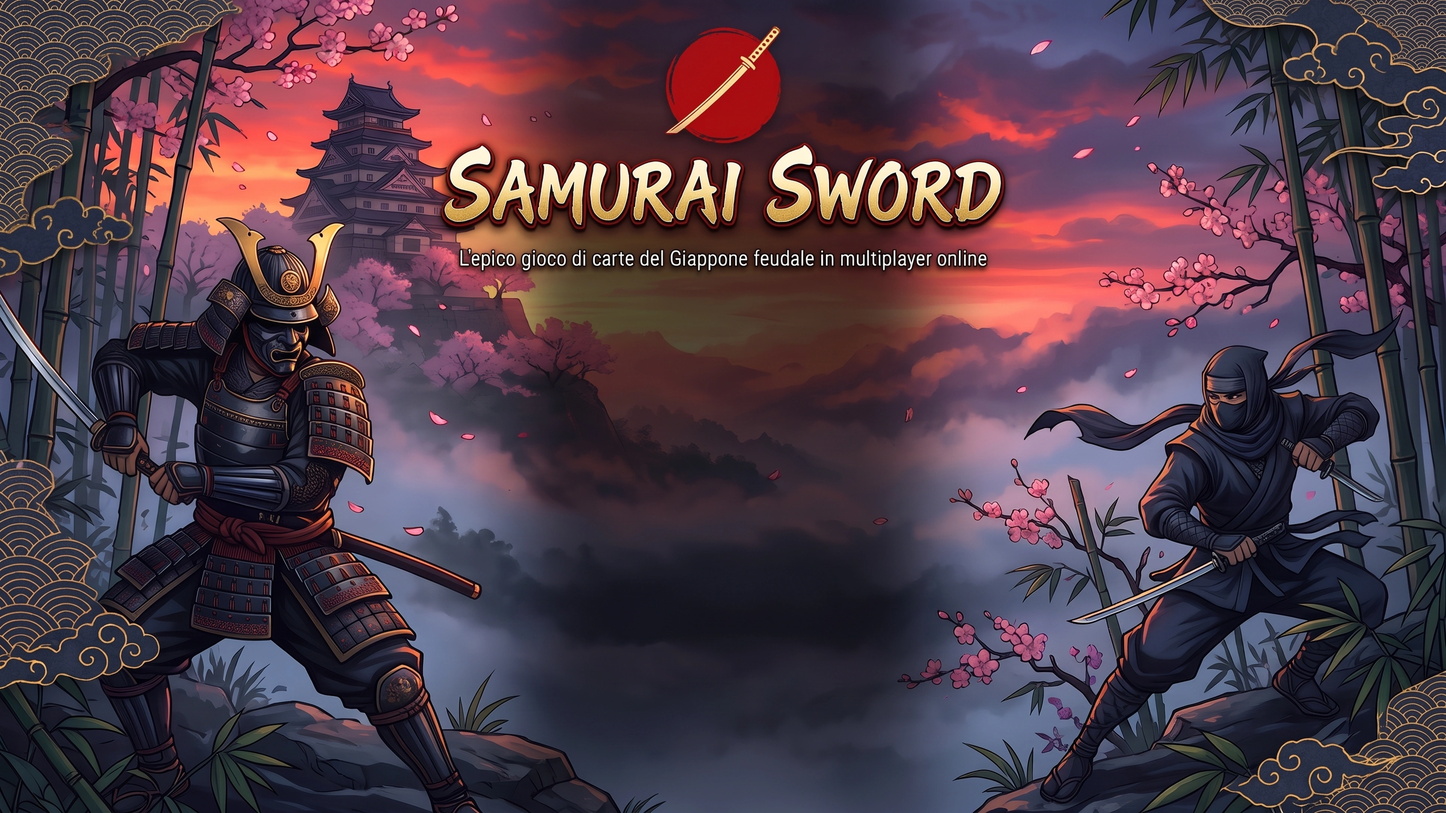
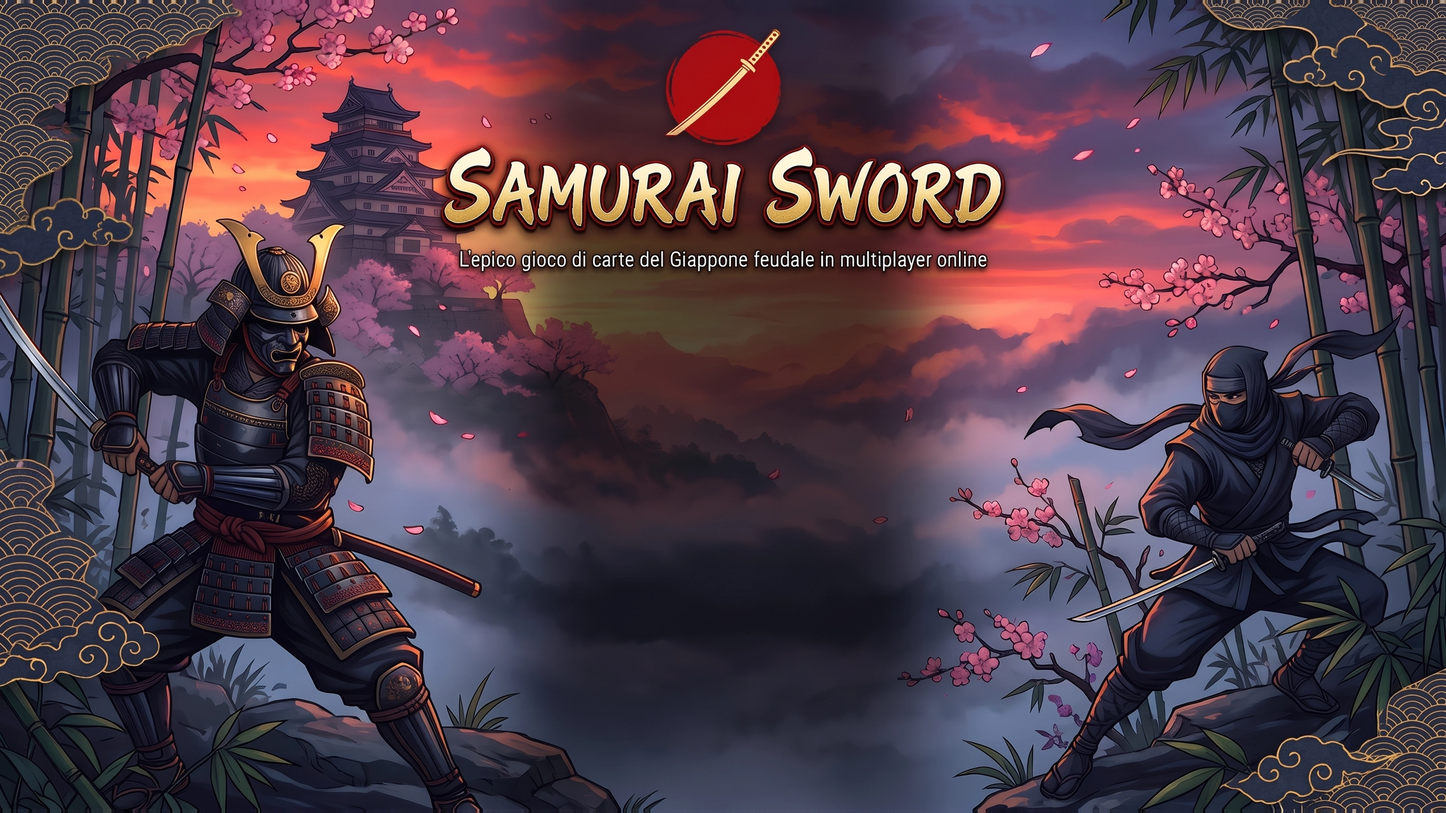
UI: elaborazione precisa sfondo 4K 16:9 con preservazione integrale dell'opera e fondale d'atmosfera senza alcun ritaglio

diff --git a/client/src/components/LobbyView.tsx b/client/src/components/LobbyView.tsx
@@ -113,18 +113,24 @@ export const LobbyView: React.FC<LobbyViewProps> = ({
 
   return (
     <div
-      className="fixed inset-0 overflow-hidden select-none animate-fadeIn flex items-center justify-center bg-black"
-      style={{
-        backgroundImage:
-          'url(/assets/ui/lobby_background_4k.webp), url(/assets/ui/lobby_background_4k.png)',
-        backgroundSize: 'cover',
-        backgroundPosition: 'center',
-        backgroundRepeat: 'no-repeat'
-      }}
+      className="fixed inset-0 overflow-hidden select-none animate-fadeIn flex items-center justify-center bg-[#07090e]"
     >
-      {/* Canvas 4K (3840 x 2160) scalato con Math.max per coprire l'intero schermo senza alcuna barra nera */}
+      {/* Fondale d'atmosfera cinematografico: estende morbidamente colori e luci su qualsiasi proporzione schermo senza sdoppiamenti né ritagli */}
       <div
-        className="relative overflow-hidden shrink-0"
+        className="absolute inset-0 pointer-events-none"
+        style={{
+          backgroundImage:
+            'url(/assets/ui/lobby_background_4k.webp), url(/assets/ui/lobby_background_4k.png)',
+          backgroundSize: 'cover',
+          backgroundPosition: 'center',
+          filter: 'blur(32px) brightness(0.35)',
+          transform: 'scale(1.08)'
+        }}
+      />
+
+      {/* Canvas 4K (3840 x 2160) scalato con Math.min: 100% dell'opera d'arte e dei controlli sempre visibile senza alcun ritaglio */}
+      <div
+        className="relative overflow-hidden shrink-0 z-10"
         style={{
           width: 3840,
           height: 2160,
